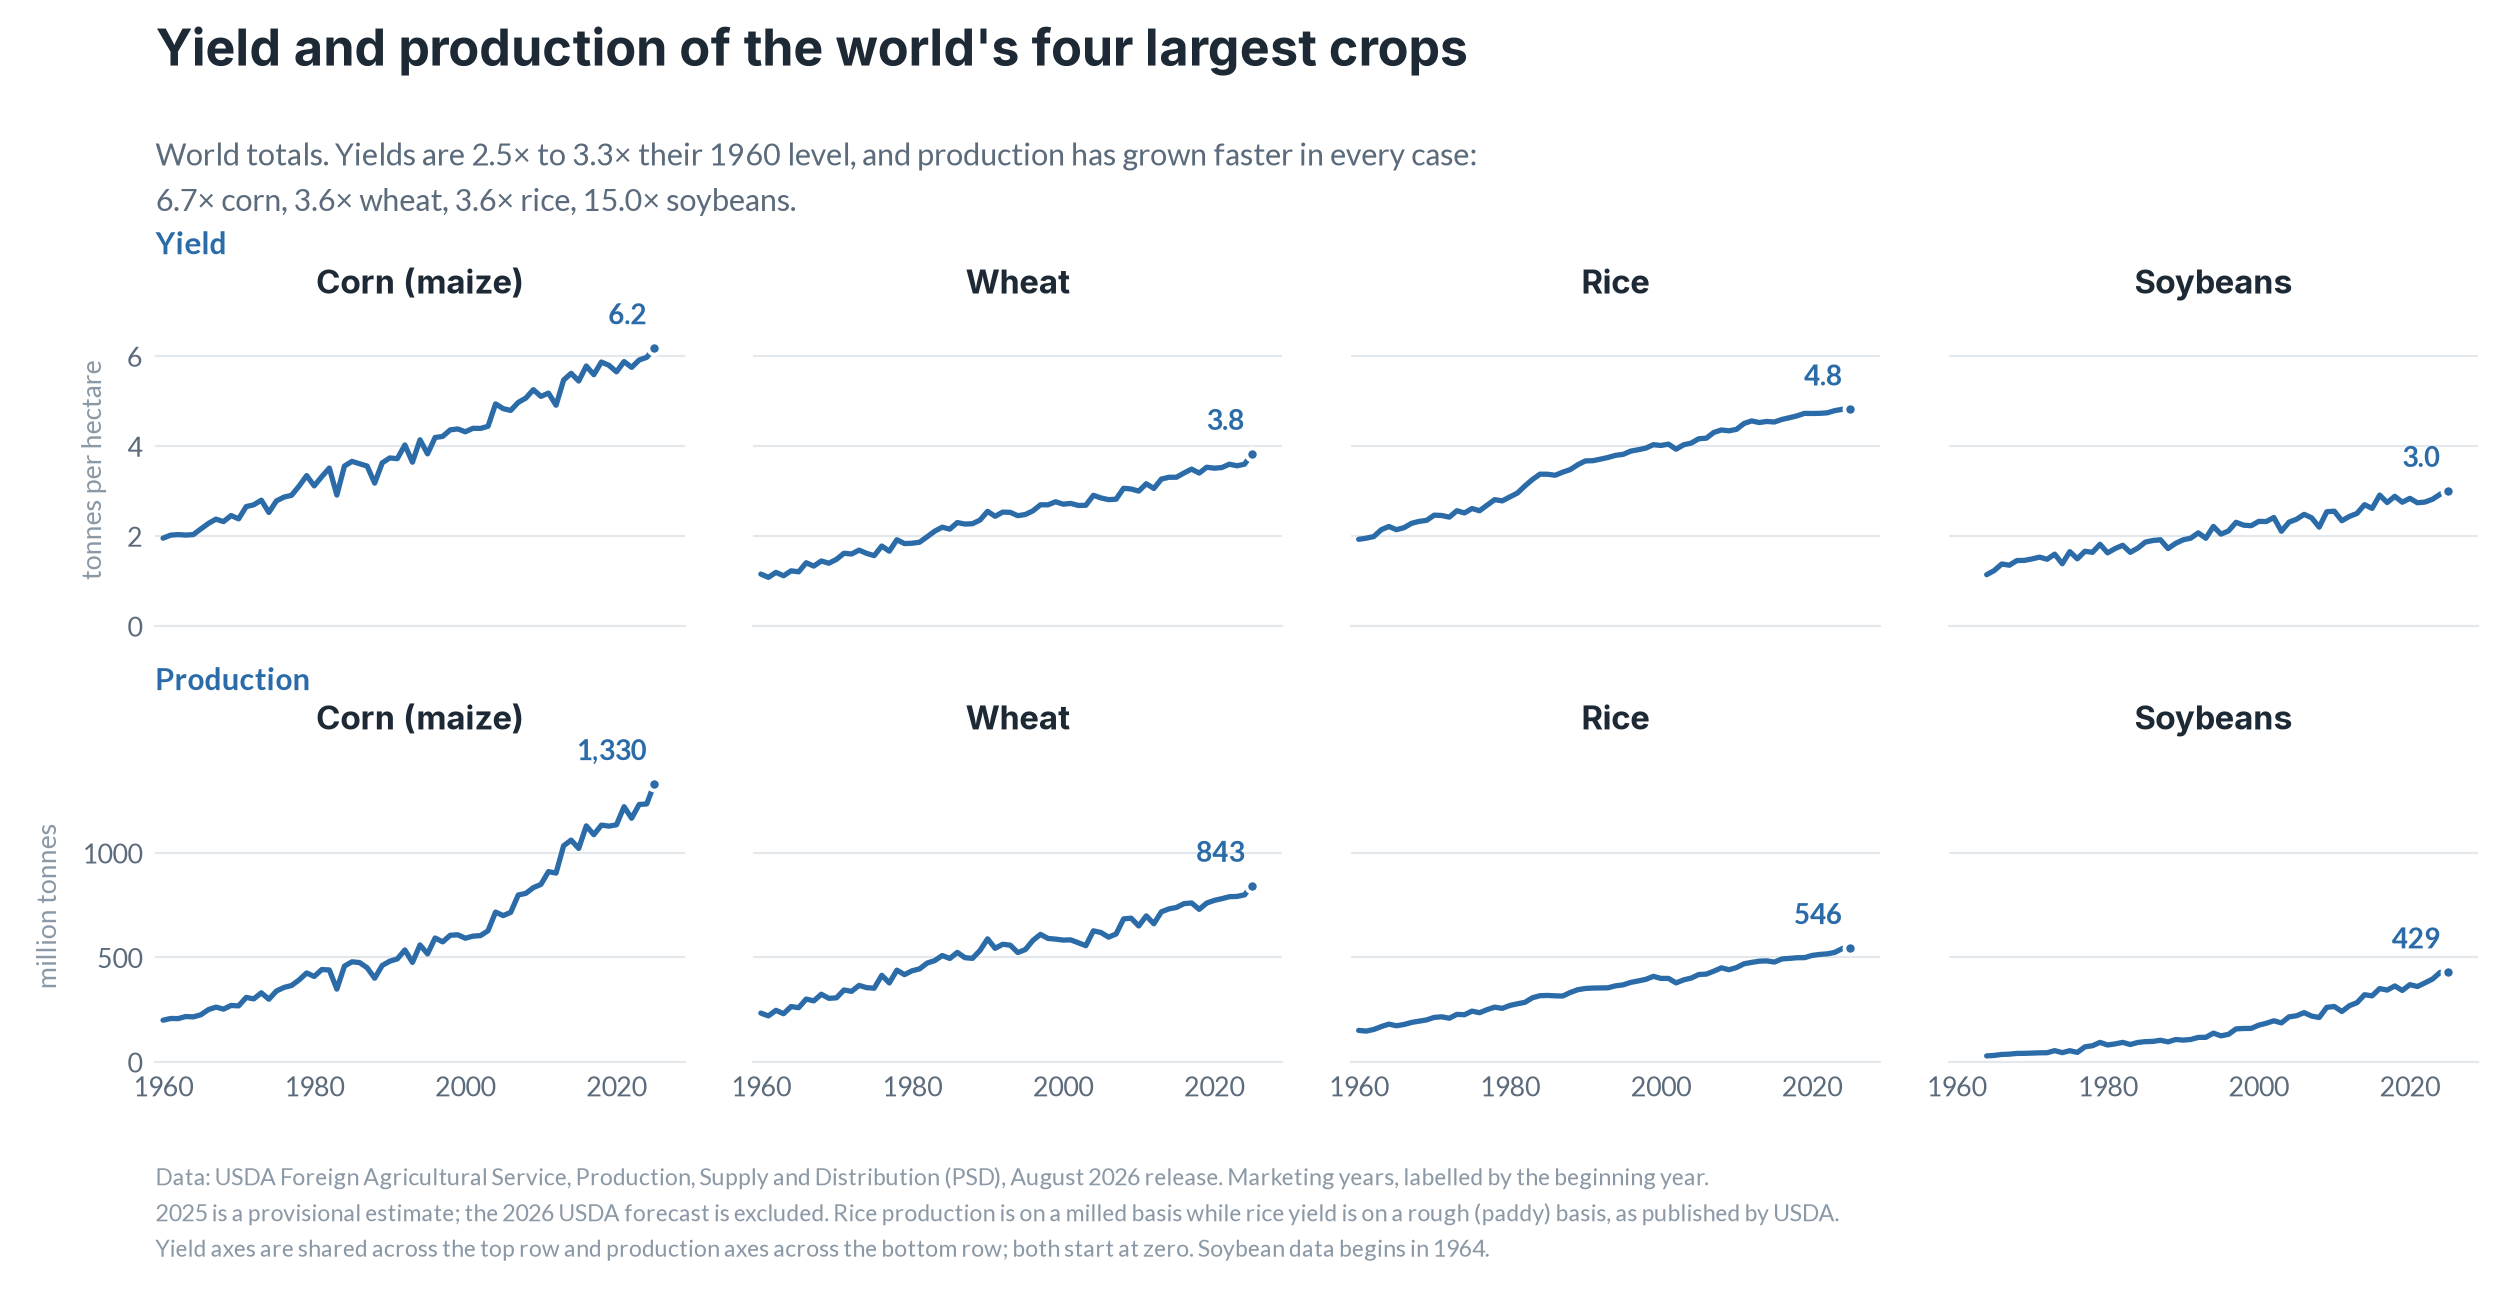
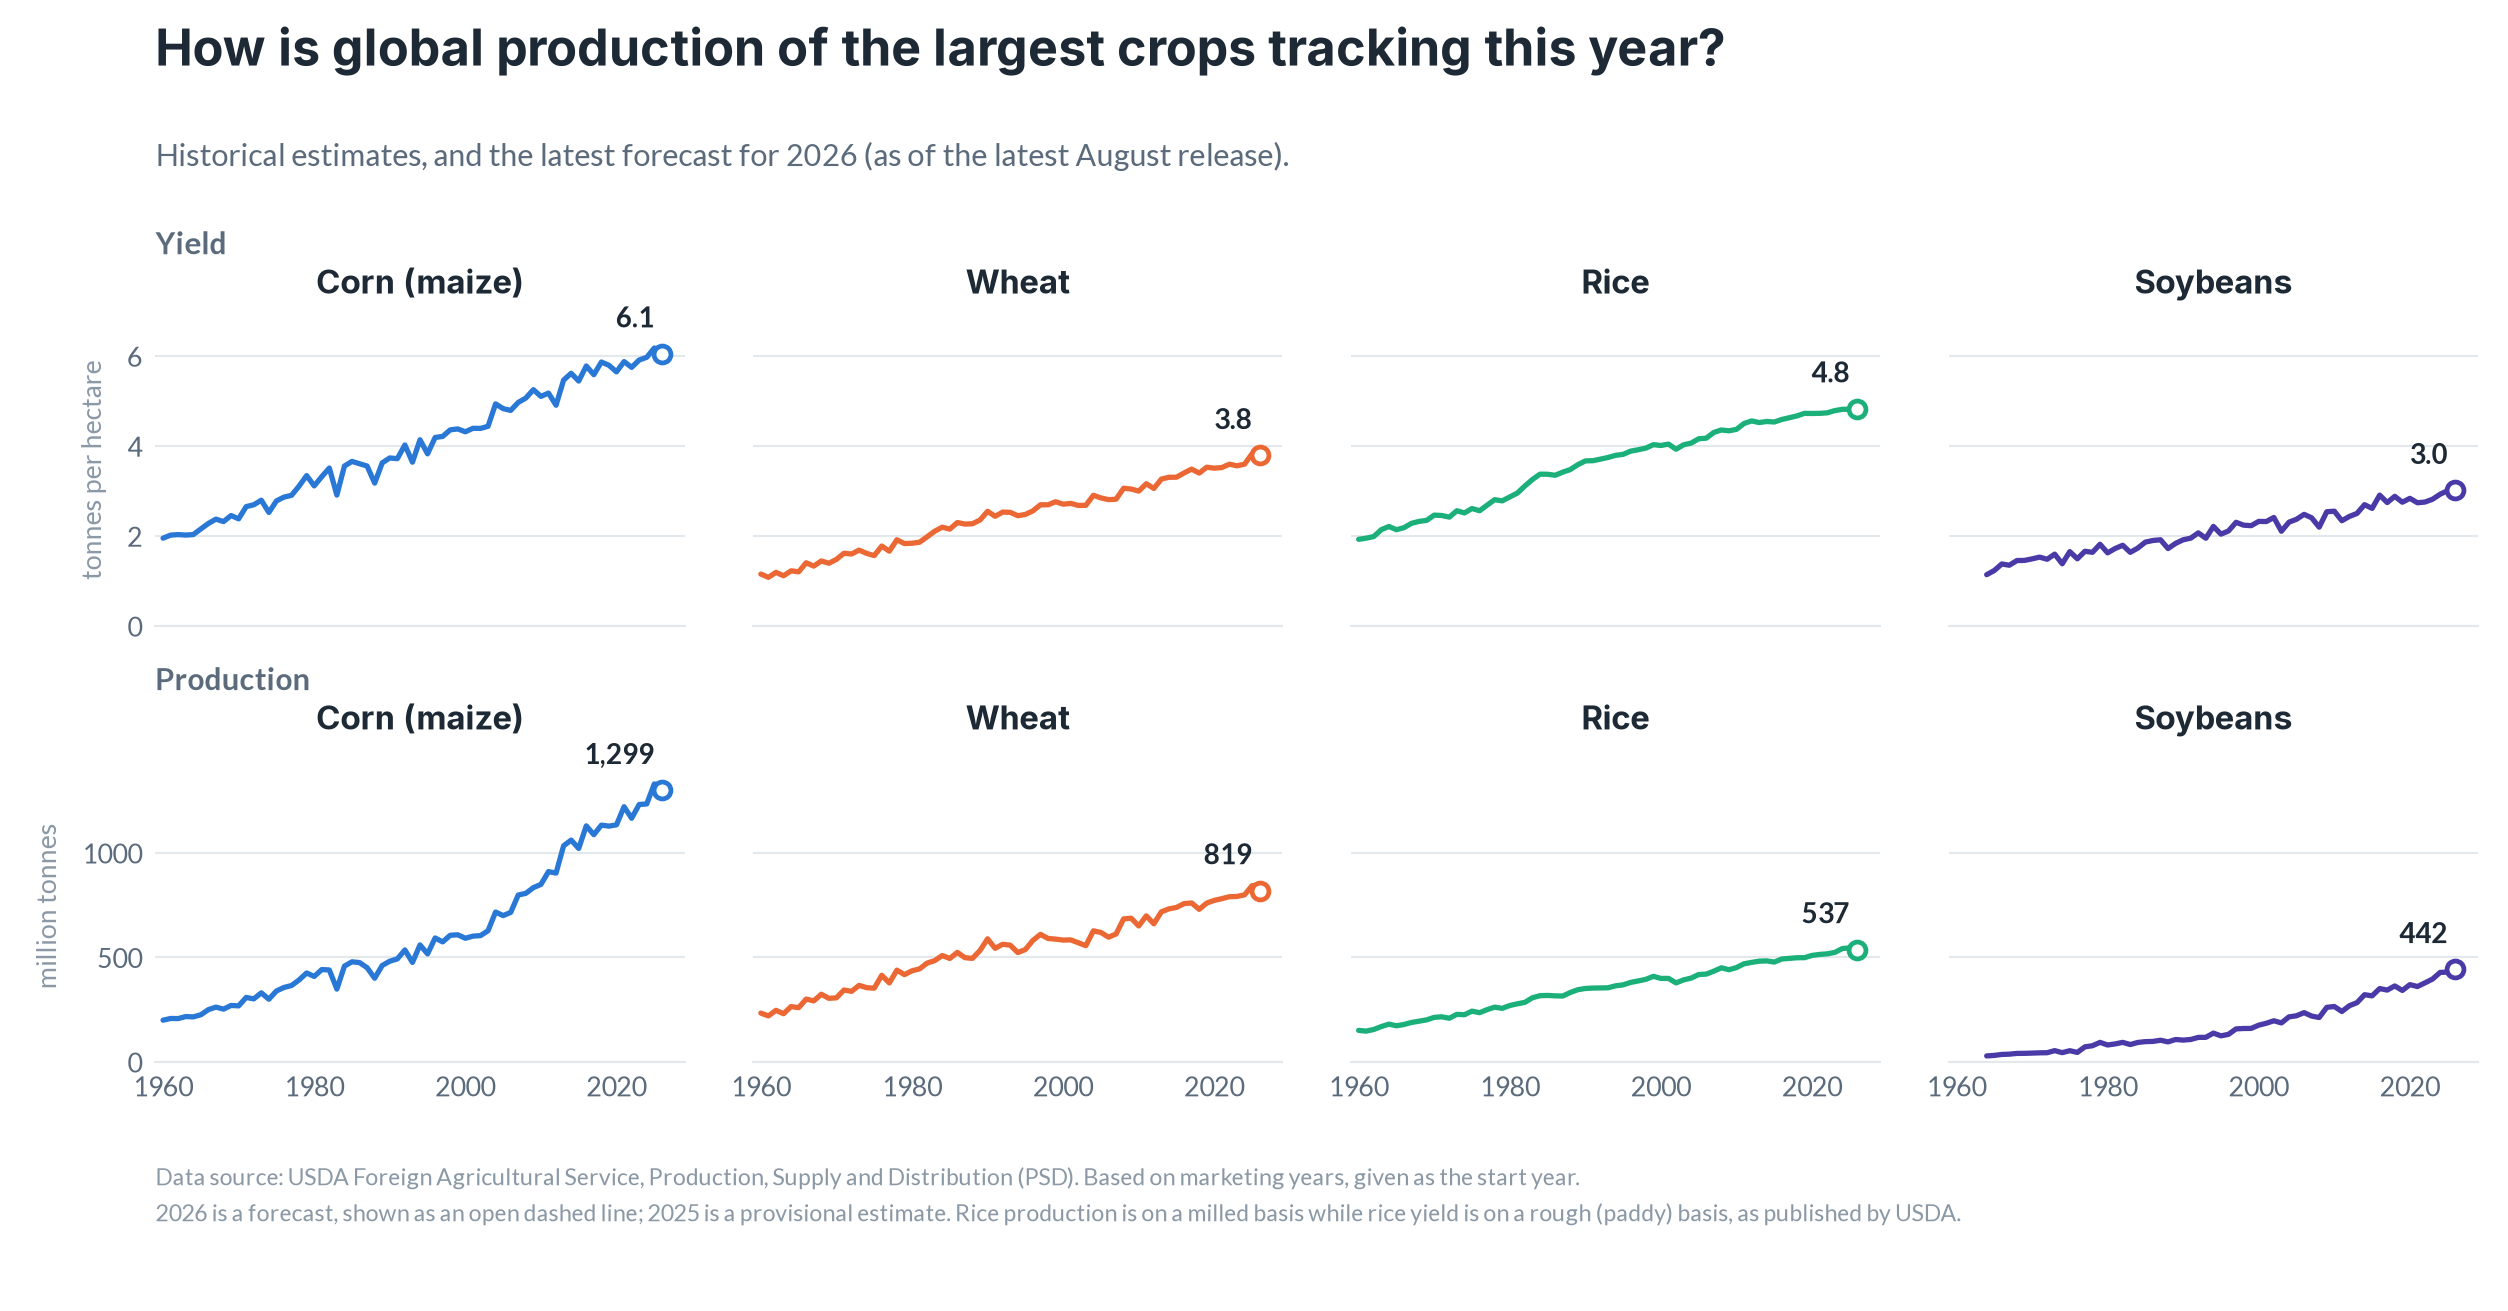
Colour the static chart by crop and show the 2026 forecast
Each crop gets a hue held constant down its column. Small multiples are an
all-pairs colour form, where the reference palette's first four slots fail
(yellow against orange); blue/orange/aqua/violet clears every gate, chosen by
running the validator. Values and titles use text ink rather than the series
colour, which is the relief aqua's contrast warning requires.

The forecast year is now included and drawn as an open dashed bar, or a dashed
line with a hollow marker, matching the explorer. The year comes from
year_projection in the data rather than being hardcoded.

New title, subtitle and source line as specified.

diff --git a/scripts/make_static_chart.py b/scripts/make_static_chart.py
@@ -36,19 +36,20 @@ DATA = ROOT / "data"
 OUT_DIR = ROOT / "static-charts"
 FONT_CACHE = Path(__file__).parent / "_fonts"
 
+# Hue per crop, held constant down each column so the yield panel and the
+# production panel for a crop read as a pair. This set passes the all-pairs
+# gates that small multiples require (worst CVD dE 9.2, normal-vision 16.3);
+# the reference palette's first four do not, because yellow meets orange.
 CROPS = [
-    ("corn", "Corn (maize)"),
-    ("wheat", "Wheat"),
-    ("rice-milled", "Rice"),
-    ("oilseed-soybean", "Soybeans"),
+    ("corn", "Corn (maize)", "#2a78d6"),
+    ("wheat", "Wheat", "#eb6834"),
+    ("rice-milled", "Rice", "#1baf7a"),
+    ("oilseed-soybean", "Soybeans", "#4a3aa7"),
 ]
 
-# The 2026 USDA forecast is excluded; 2025 is a provisional estimate.
-YEAR_MAX = 2025
+# The provisional and forecast years come from the build, not hardcoded, so they
+# follow each monthly USDA release.
 
-# Single validated ink (lightness band, chroma floor and contrast all pass for
-# the light surface). Colour carries no information here, so one hue is used.
-INK = "#2a6ba8"
 TEXT = "#1d2934"
 MUTED = "#5b6b7c"
 FAINT = "#8b98a5"
@@ -109,33 +110,16 @@ def install_fonts() -> tuple[str, str]:
     return display, body
 
 
-def fmt_change(first: float, last: float) -> str:
-    """A ratio as a multiple when large, a percentage when modest."""
-    r = last / first
-    return f"{r:.1f}\u00d7" if r >= 3 else f"+{(r - 1) * 100:.0f}%"
-
-
-def yield_phrase(lo: float, hi: float, year: int) -> str:
-    """Phrase a ratio range so the preposition matches the unit used."""
-    if hi >= 3:                                   # multiples: "3.2x their 1960 level"
-        a, b = f"{lo:.1f}\u00d7", f"{hi:.1f}\u00d7"
-        both = a if a == b else f"{a} to {b}"
-        return f"Yields are {both} their {year} level"
-    a, b = f"{(lo - 1) * 100:.0f}%", f"{(hi - 1) * 100:.0f}%"
-    both = a if a == b else f"{a} to {b}"
-    return f"Yields are {both} above their {year} level"
-
-
 def load(slug: str, year_min: int) -> tuple[dict, dict]:
-    d = json.loads((DATA / f"{slug}.json").read_text()) if slug.endswith(".json") \
-        else json.loads((DATA / "commodity" / f"{slug}.json").read_text())
+    d = json.loads((DATA / "commodity" / f"{slug}.json").read_text())
     world = d["series"]["@World"]
     idx = {y: i for i, y in enumerate(d["years"])}
     out = {}
     for metric in ("yield", "production"):
         series = world.get(metric) or []
         pts = [(y, series[idx[y]]) for y in d["years"]
-               if year_min <= y <= YEAR_MAX and series and series[idx[y]] is not None]
+               if year_min <= y <= d["year_projection"]
+               and series and series[idx[y]] is not None]
         out[metric] = pts
     return d, out
 
@@ -160,7 +144,11 @@ def main() -> None:
         "svg.fonttype": "none",
     })
 
-    data = {slug: load(slug, year_min) for slug, _ in CROPS}
+    data = {slug: load(slug, year_min) for slug, _, _ in CROPS}
+    meta = data[CROPS[0][0]][0]
+    prov, proj = meta["year_provisional"], meta["year_projection"]
+    if {(d["year_provisional"], d["year_projection"]) for d, _ in data.values()} != {(prov, proj)}:
+        raise SystemExit("crops disagree on the provisional/forecast years")
 
     fig, axes = plt.subplots(
         2, 4, figsize=(13.2, 6.9), dpi=190,
@@ -174,13 +162,13 @@ def main() -> None:
     # Shared y-limit per row so the four crops compare directly.
     limits = {}
     for metric, _, _ in rows:
-        top = max(v for slug, _ in CROPS for _, v in data[slug][1][metric])
+        top = max(v for slug, _, _ in CROPS for _, v in data[slug][1][metric])
         if metric == "production":
             top /= 1000.0
         limits[metric] = top * 1.12
 
     for r, (metric, row_label, unit) in enumerate(rows):
-        for c, (slug, label) in enumerate(CROPS):
+        for c, (slug, label, hue) in enumerate(CROPS):
             ax = axes[r][c]
             pts = data[slug][1][metric]
             xs = [y for y, _ in pts]
@@ -194,29 +182,44 @@ def main() -> None:
             ax.spines["bottom"].set_color(GRID)
             ax.spines["bottom"].set_linewidth(0.8)
 
+            solid = [(x, y) for x, y in zip(xs, ys) if x < proj]
+            fcast = [(x, y) for x, y in zip(xs, ys) if x >= proj]
+
             if kind == "column":
                 # Bars encode magnitude by length, so the baseline stays at zero.
                 # 0.82 of the year step leaves a surface gap between columns.
-                ax.bar(xs, ys, width=0.82, color=INK, linewidth=0)
-                label_dx, label_dy, label_ha = 0, 6, "center"
+                ax.bar([x for x, _ in solid], [y for _, y in solid],
+                       width=0.82, color=hue, linewidth=0)
+                # The forecast year is an open box with a dashed outline, so it
+                # reads as a projection rather than an observation.
+                ax.bar([x for x, _ in fcast], [y for _, y in fcast],
+                       width=0.82, facecolor="none", edgecolor=hue,
+                       linewidth=1.4, linestyle=(0, (3.2, 2.2)), zorder=4)
+                label_dx, label_dy, label_ha = 0, 7, "center"
             else:
-                ax.plot(xs, ys, color=INK, linewidth=2.0, solid_capstyle="round")
-                ax.plot([xs[-1]], [ys[-1]], "o", color=INK, markersize=4.6,
-                        markeredgecolor=SURFACE, markeredgewidth=1.4, zorder=5)
-                label_dx, label_dy, label_ha = -3, 9, "right"
+                ax.plot([x for x, _ in solid], [y for _, y in solid],
+                        color=hue, linewidth=2.0, solid_capstyle="round")
+                if fcast:
+                    bridge = solid[-1:] + fcast
+                    ax.plot([x for x, _ in bridge], [y for _, y in bridge],
+                            color=hue, linewidth=2.0, linestyle=(0, (3.2, 2.2)))
+                ax.plot([xs[-1]], [ys[-1]], "o", markersize=6.4, zorder=5,
+                        markerfacecolor=SURFACE, markeredgecolor=hue,
+                        markeredgewidth=1.8)
+                label_dx, label_dy, label_ha = -3, 10, "right"
 
             # One direct label per panel: the latest value.
             ax.annotate(f"{ys[-1]:,.1f}" if ys[-1] < 100 else f"{ys[-1]:,.0f}",
                         (xs[-1], ys[-1]), textcoords="offset points",
                         xytext=(label_dx, label_dy), ha=label_ha, fontsize=10.5,
-                        fontweight="bold", color=INK)
+                        fontweight="bold", color=TEXT)
 
             pad_l = 0.9 if kind == "column" else 1
-            pad_r = 2.2 if kind == "column" else 4
-            ax.set_xlim(year_min - pad_l, YEAR_MAX + pad_r)
+            pad_r = 1.4 if kind == "column" else 3
+            ax.set_xlim(year_min - pad_l, proj + pad_r)
             ax.set_ylim(0, limits[metric])
-            step = 20 if (YEAR_MAX - year_min) > 40 else 5
-            ticks = [y for y in range(year_min, YEAR_MAX + 1) if y % step == 0]
+            step = 20 if (proj - year_min) > 40 else 5
+            ticks = [y for y in range(year_min, proj + 1) if y % step == 0]
             ax.set_xticks(ticks)
             ax.tick_params(axis="both", length=0, labelsize=10, pad=5)
             if c == 0:
@@ -232,43 +235,25 @@ def main() -> None:
             # Row name above the row, clear of the crop titles.
             if c == 0:
                 ax.text(0.0, 1.175, row_label, transform=ax.transAxes,
-                        fontsize=11.5, fontweight="bold", color=INK,
+                        fontsize=11.5, fontweight="bold", color=MUTED,
                         ha="left", va="bottom")
 
-    # Derived, never hardcoded: the numbers must match whatever span was asked for.
-    growth = {}
-    for slug, label in CROPS:
-        pts = data[slug][1]
-        growth[label] = {m: (pts[m][0][1], pts[m][-1][1])
-                         for m in ("yield", "production")}
-    y_ratios = [b / a for g in growth.values() for a, b in [g["yield"]]]
-    prod_faster = all(g["production"][1] / g["production"][0]
-                      > g["yield"][1] / g["yield"][0] for g in growth.values())
-    y_lo, y_hi = min(y_ratios), max(y_ratios)
-    prod_bits = ", ".join(
-        f"{fmt_change(*g['production'])} {label.split(' (')[0].lower()}"
-        for label, g in growth.items())
-    tail = ("and production has grown faster in every case: " if prod_faster
-            else "and production has changed by ")
-
-    fig.text(0.062, 0.950, "Yield and production of the world's four largest crops",
+    fig.text(0.062, 0.950,
+             "How is global production of the largest crops tracking this year?",
              fontsize=19, fontweight="bold", color=TEXT, ha="left",
              fontfamily=display)
     fig.text(0.062, 0.898,
-             f"World totals. {yield_phrase(y_lo, y_hi, year_min)}, {tail}\n"
-             f"{prod_bits}.",
+             f"Historical estimates, and the latest forecast for {proj} "
+             f"(as of the latest August release).",
              fontsize=11.5, color=MUTED, ha="left", va="top", linespacing=1.5)
 
     fig.text(0.062, 0.115,
-             "Data: USDA Foreign Agricultural Service, Production, Supply and "
-             "Distribution (PSD), August 2026 release. Marketing years, labelled by "
-             "the beginning year.\n"
-             f"{YEAR_MAX} is a provisional estimate; the {YEAR_MAX + 1} USDA forecast "
-             "is excluded. Rice production is on a milled basis while rice yield is "
-             "on a rough (paddy) basis, as published by USDA.\n"
-             "Yield axes are shared across the top row and production axes across the "
-             "bottom row; both start at zero."
-             + ("" if year_min > 1964 else " Soybean data begins in 1964."),
+             "Data source: USDA Foreign Agricultural Service, Production, Supply "
+             "and Distribution (PSD). Based on marketing years, given as the start "
+             "year.\n"
+             f"{proj} is a forecast, shown as an open dashed {'bar' if kind == 'column' else 'line'}; "
+             f"{prov} is a provisional estimate. Rice production is on a milled basis "
+             "while rice yield is on a rough (paddy) basis, as published by USDA.",
              fontsize=8.8, color=FAINT, ha="left", va="top", linespacing=1.55)
 
     suffix = ("" if kind == "line" else "-column") + \

diff --git a/README.md b/README.md
@@ -108,9 +108,17 @@ uv run scripts/make_static_chart.py                        # lines, 1960-2025
 uv run scripts/make_static_chart.py --kind column --start 2000
 ```
 
-The headline numbers in the subtitle are computed from the data for whichever span
-is requested, and switch between percentages and multiples by magnitude — so they
-cannot drift out of step with the chart or with a monthly rebuild.
+Each crop carries its own hue, held constant down its column so the yield and
+production panels read as a pair. Four hues is the interesting constraint: small
+multiples are an all-pairs form, and the reference palette's first four slots fail
+it (yellow meets orange). Blue/orange/aqua/violet clears every hard gate — worst
+CVD dE 9.2, worst normal-vision 16.3 — and was picked by running the validator, not
+by eye. Aqua carries a contrast warning, so values and titles are set in text ink
+rather than the series colour, which is the required relief.
+
+The forecast year is drawn as an open dashed bar (or dashed line with a hollow
+marker), matching the explorer's treatment. Which year that is comes from
+`year_projection` in the commodity files, so it follows each monthly release.
 
 Each panel holds a single series, so no categorical palette is needed: the column
 headings carry identity and one validated ink serves every panel. y-axes are shared
